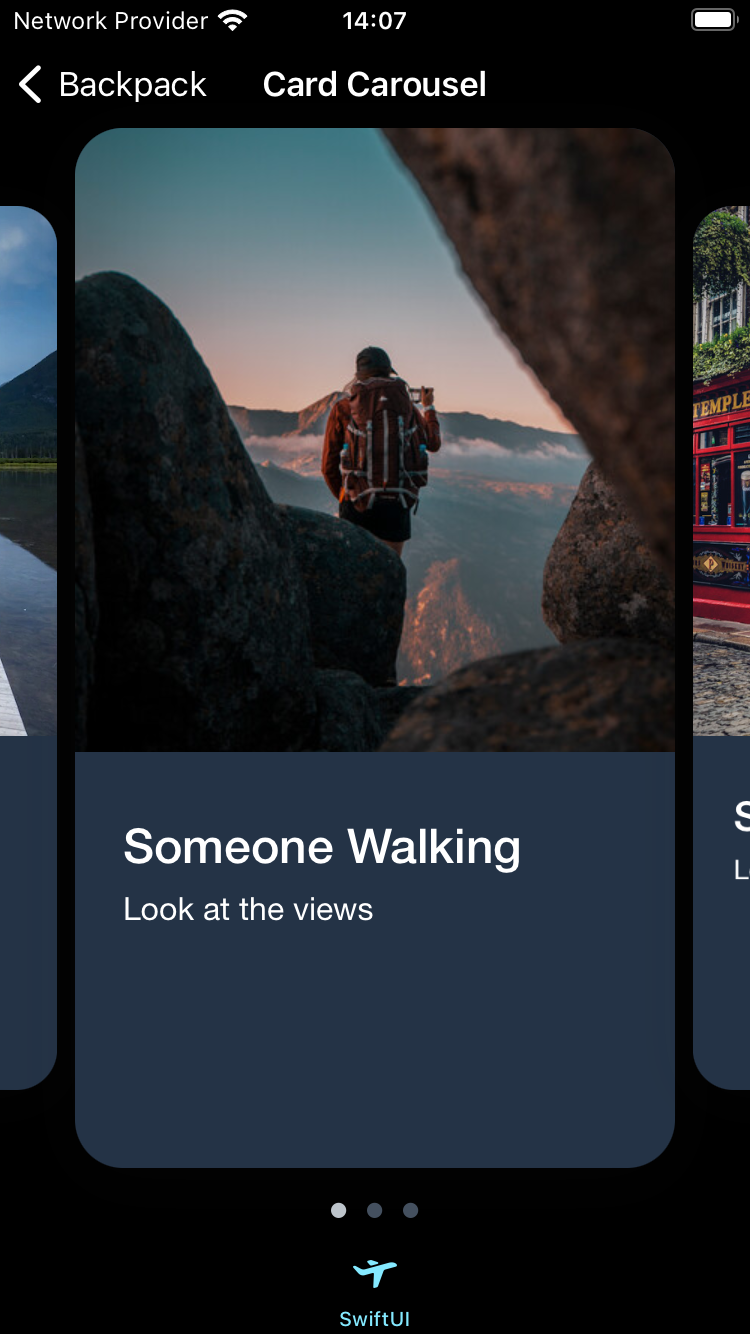
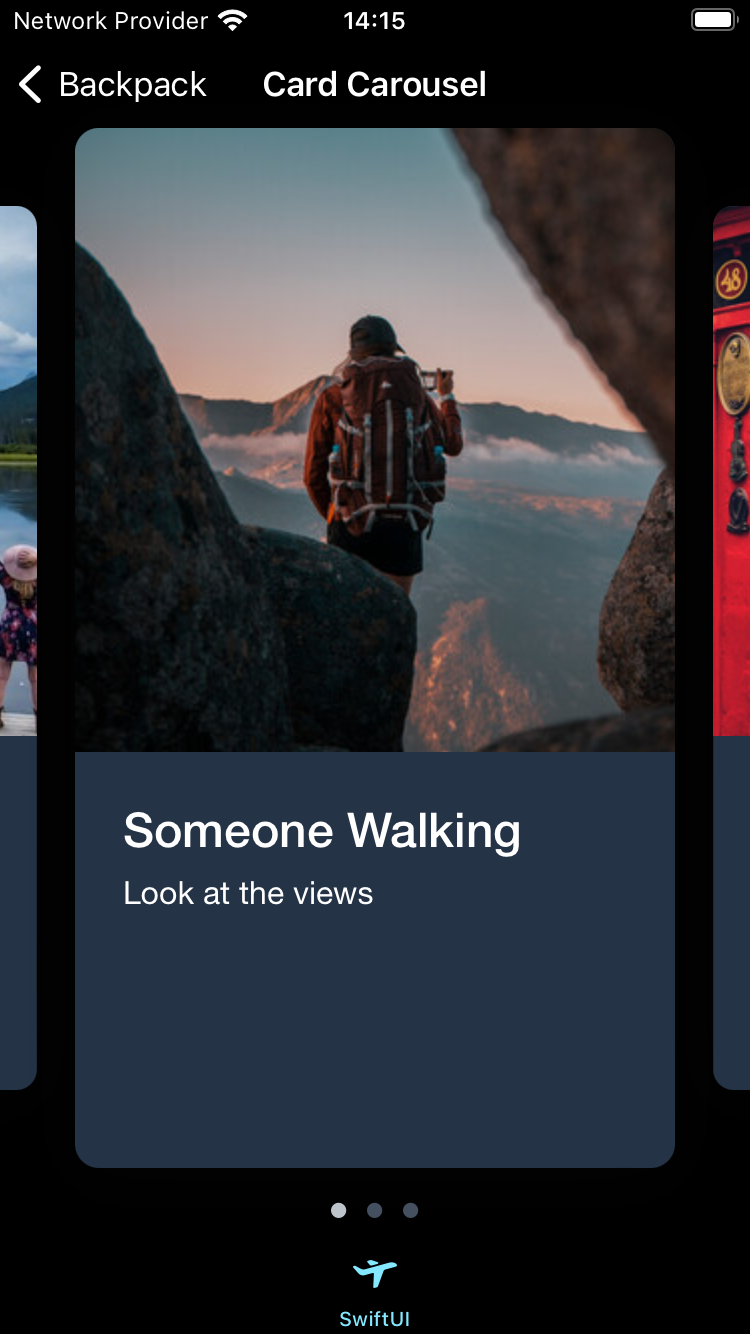
retake screenshots

diff --git a/Backpack-SwiftUI/CarouselCard/Classes/BPKCarouselCard.swift b/Backpack-SwiftUI/CarouselCard/Classes/BPKCarouselCard.swift
@@ -59,13 +59,13 @@ public struct BPKCarouselCard<Content: View>: View {
                 }
             }
             .background(.white.darkVariant(.badgeBackgroundNormalColor))
-            .clipShape(RoundedRectangle(cornerRadius: .lg))
+            .clipShape(RoundedRectangle(cornerRadius: .md))
             .shadow(.lg)
         }
     }
     
     private func cardContent(reader: GeometryProxy) -> some View {
-        VStack(alignment: .leading) {
+        VStack(alignment: .leading, spacing: BPKSpacing.none) {
             content()
                 .frame(
                     width: reader.size.width,

diff --git a/Backpack-SwiftUI/CardCarousel/Classes/BPKCardCarousel.swift b/Backpack-SwiftUI/CardCarousel/Classes/BPKCardCarousel.swift
@@ -98,7 +98,7 @@ internal struct InternalCardCarousel<Content: View>: View {
                         .frame(width: cardWidth)
                         .offset(x: isDragging ? totalDrag : getContentOffset(
                             for: index,
-                            spacing: horizontalSizeClass == .regular ? 0 : BPKSpacing.base.value
+                            spacing: horizontalSizeClass == .regular ? 0 : BPKSpacing.sm.value
                         ))
                         .animation(dragAnimation, value: totalDrag)
                         .scaleEffect(scaleEffect(for: index))
